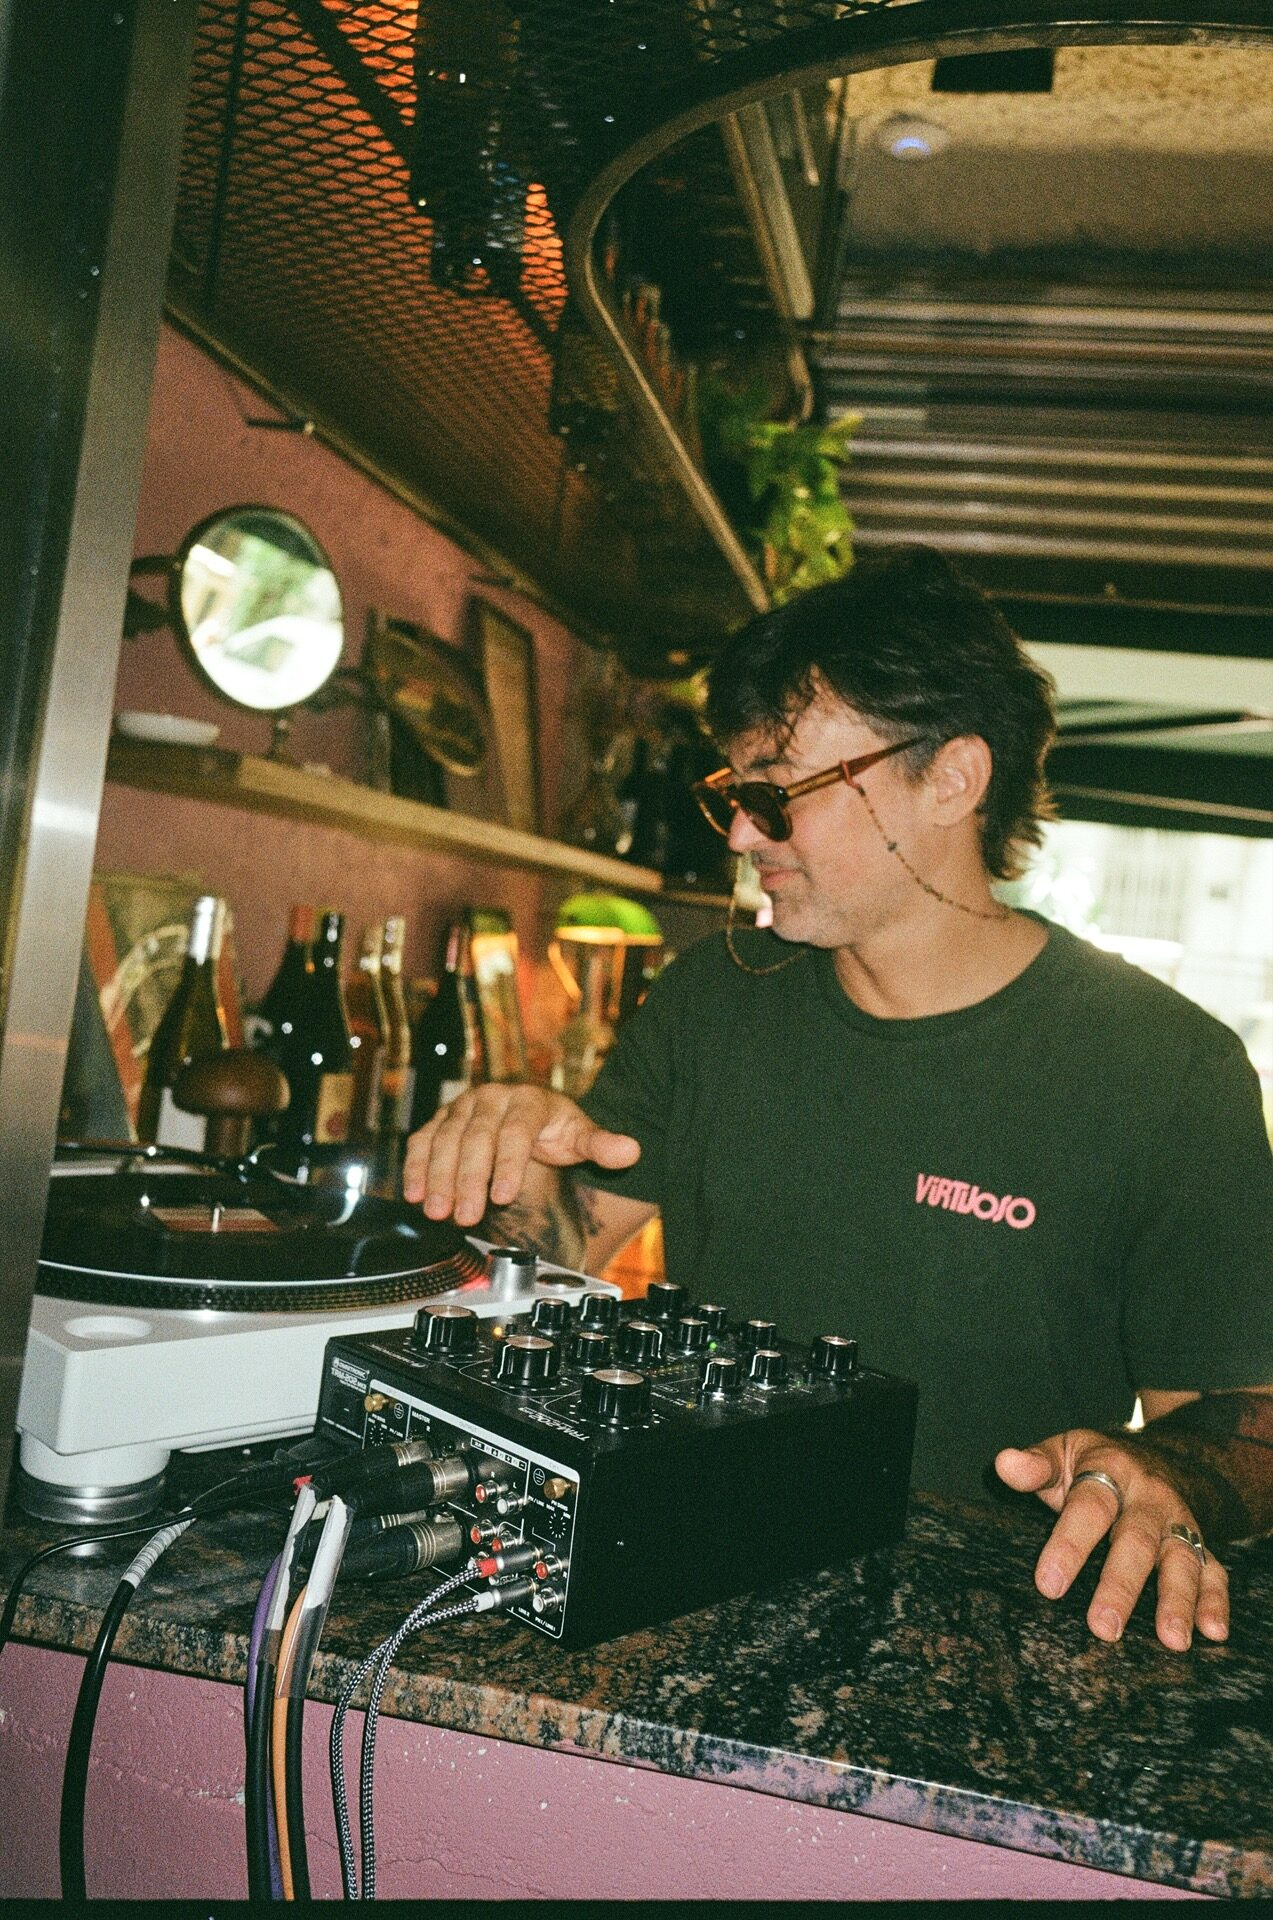
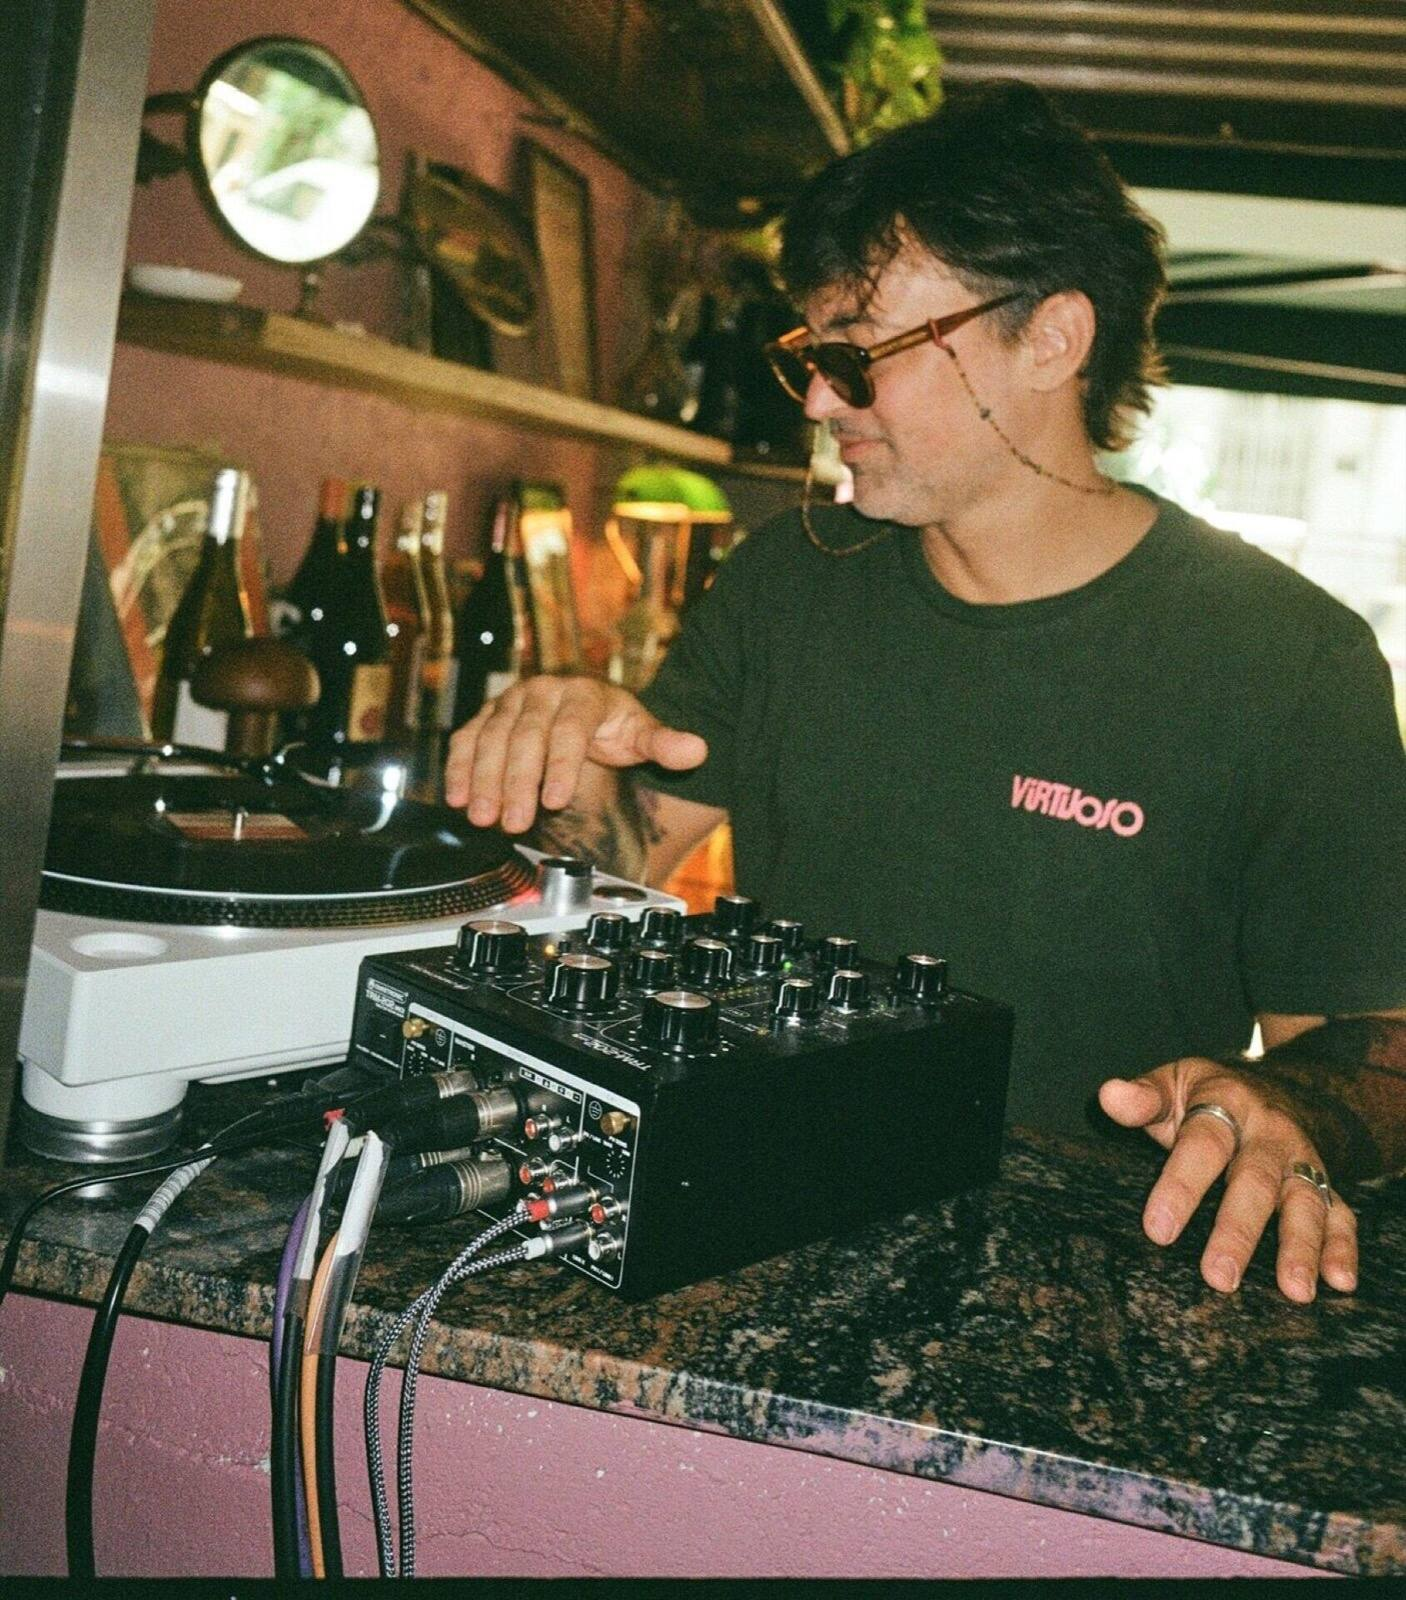
update djs gallery images (compressed for Pages deploy)

diff --git a/js/main.js b/js/main.js
@@ -50,15 +50,15 @@
       alt: 'DJs na Virtuoso',
       images: [
         { file: '01.jpg', objectPosition: 'center top' },
-        { file: '003_Bossa_BW.jpg', objectPosition: 'center 5%' },
-        { file: '2608GIAN_001_0473.jpg', objectPosition: 'center 5%' },
-        { file: '833a35fc-4a55-4c39-8b69-085e3b027c2f.jpg', objectPosition: 'center 8%' },
-        { file: 'DAVE JEFFERS 2025 @davefotogram.jpg', objectPosition: 'center 5%' },
-        { file: 'David_4.jpg', objectPosition: 'center 5%' },
-        { file: 'Foto Divulgação.jpg', objectPosition: 'center 5%' },
-        'Foto34 @vivacquafv..jpg',
-        { file: 'hitoshi2.jpeg', objectPosition: 'center 5%' },
-        { file: 'WhatsApp Image 2025-05-31 at 11.13.37.jpeg', objectPosition: 'center 5%' },
+        { file: '02.jpg', objectPosition: 'center 5%' },
+        { file: '03.jpg', objectPosition: 'center 5%' },
+        { file: '04.jpg', objectPosition: 'center 8%' },
+        { file: '05.jpg', objectPosition: 'center 5%' },
+        { file: '06.jpeg', objectPosition: 'center 5%' },
+        { file: '07.jpg', objectPosition: 'center 5%' },
+        '08.jpg',
+        { file: '09.jpeg', objectPosition: 'center 5%' },
+        { file: '10.jpg', objectPosition: 'center 5%' },
       ],
     },
     {